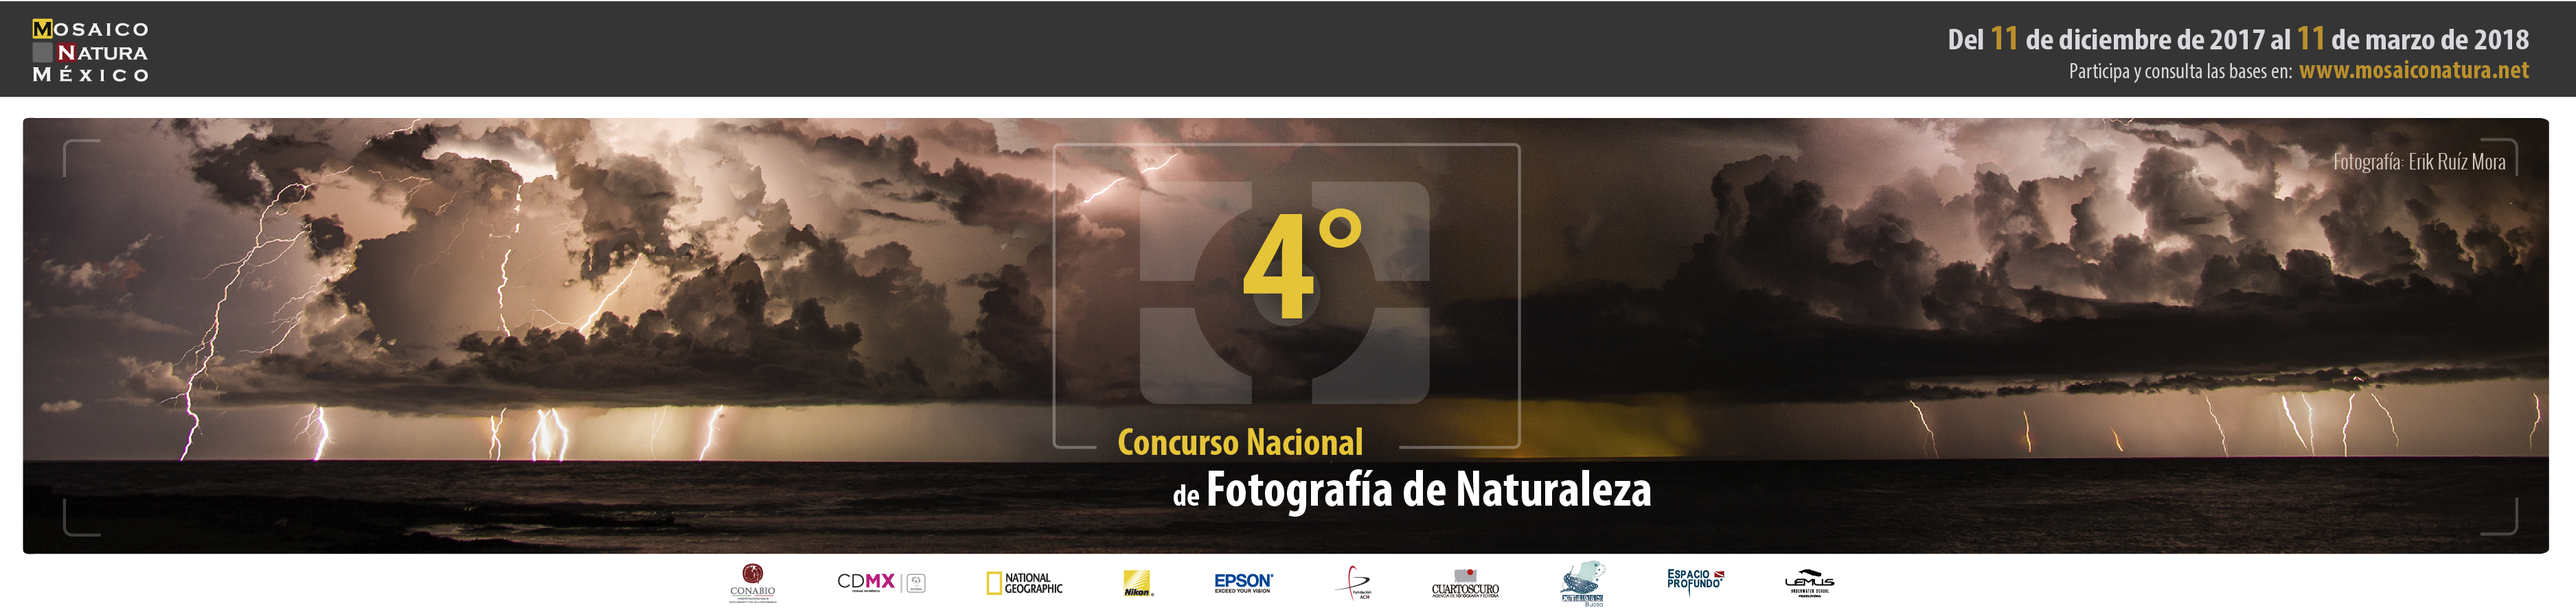
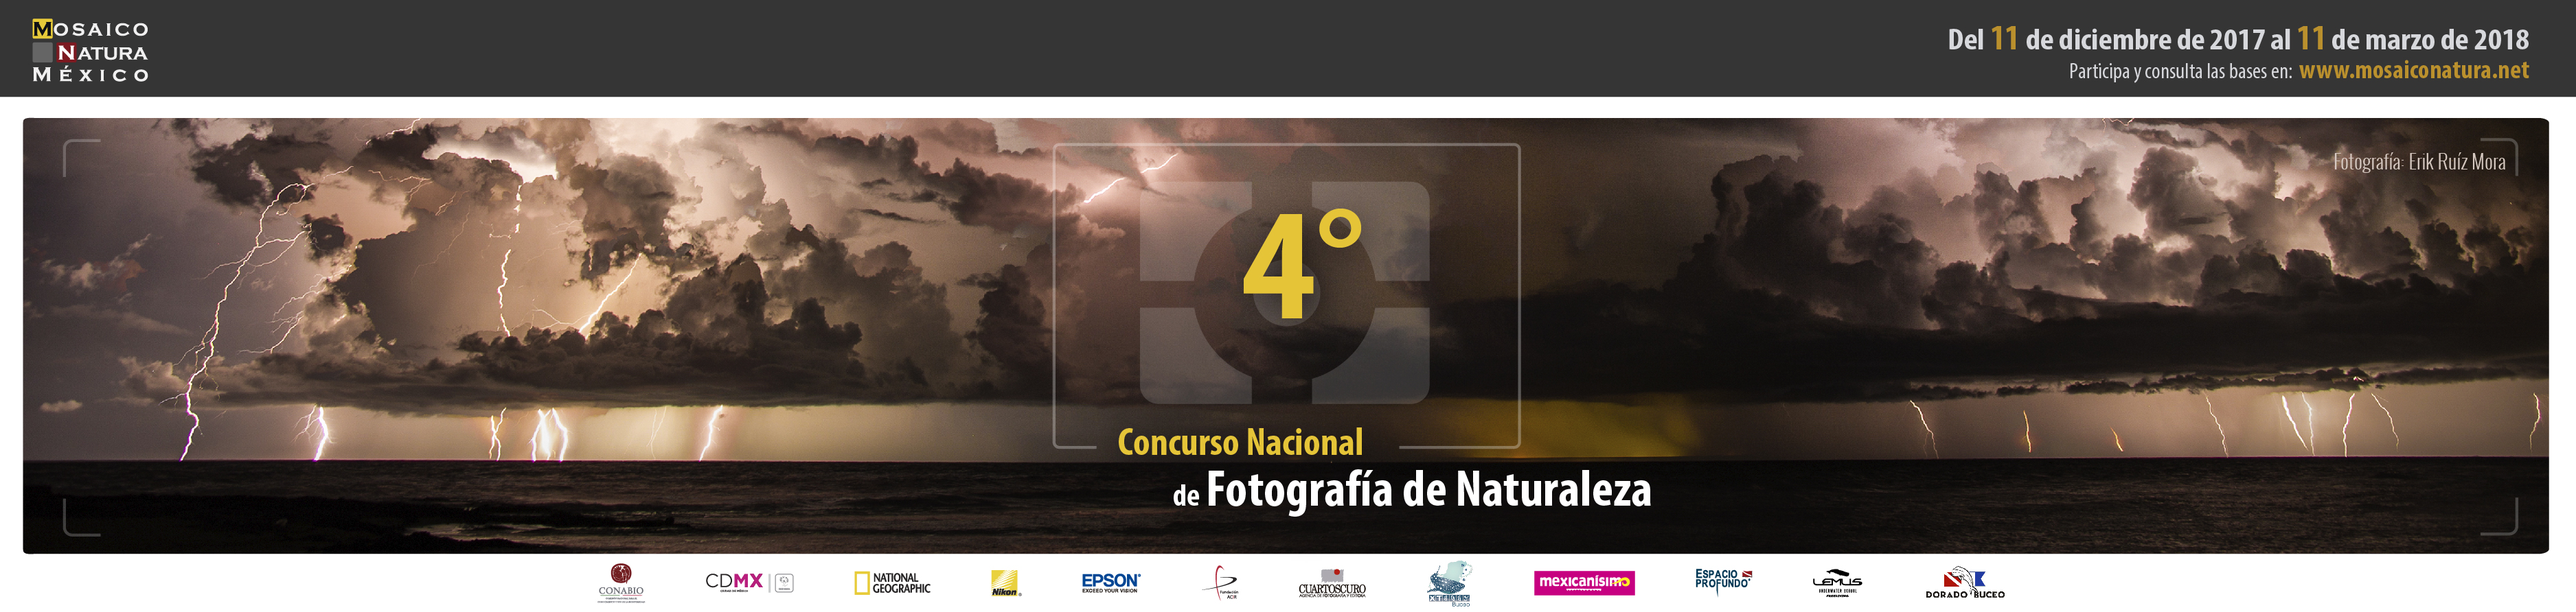
agrega patrocinadores mexicanisimo y buceo dorado

Changed region(s): [[0.2807, 0.9081, 0.7174, 0.9989], [0.2183, 0.9081, 0.2495, 0.9989], [0.7486, 0.9383, 0.7798, 0.9989]]

diff --git a/protected/views/layouts/main.php b/protected/views/layouts/main.php
@@ -212,6 +212,8 @@
 				<li><a href="http://www.fundacionacir.org.mx/" target="_blank"><img src="<?php echo $yii_path; ?>/img/logo-acir.png" alt="Fundación Acir" width="8%"></a></li><br>
 				<li><a href="http://http://cuartoscuro.com.mx/" target="_blank"><img src="<?php echo $yii_path; ?>/img/logo-cuartoscuro.png" alt="Cuartoscuro" width="12%"></a></li>
 				<li><a href="http://http://buceoxtabay.com/" target="_blank"><img src="<?php echo $yii_path; ?>/img/logo-xtabay.png" alt="Xtabay" width="10%"></a></li>
+				<li><a href="http://http://www.espacioprofundo.com.mx/" target="_blank"><img src="<?php echo $yii_path; ?>/img/logo-dorado-buceo.png" alt="Dorado Buceo" width="14%"></a></li>
+				<li><a href="http://http://www.lemusunderwaterschool.com/" target="_blank"><img src="<?php echo $yii_path; ?>/img/logo-mexicanisimo.png" alt="Mexicanísimo" width="14%"></a></li>
 				<li><a href="http://http://www.espacioprofundo.com.mx/" target="_blank"><img src="<?php echo $yii_path; ?>/img/logo-espacio-profundo.png" alt="Espacio Profundo" width="10%"></a></li>
 				<li><a href="http://http://www.lemusunderwaterschool.com/" target="_blank"><img src="<?php echo $yii_path; ?>/img/logo-lemus.png" alt="Lemus" width="10%"></a></li>
 
